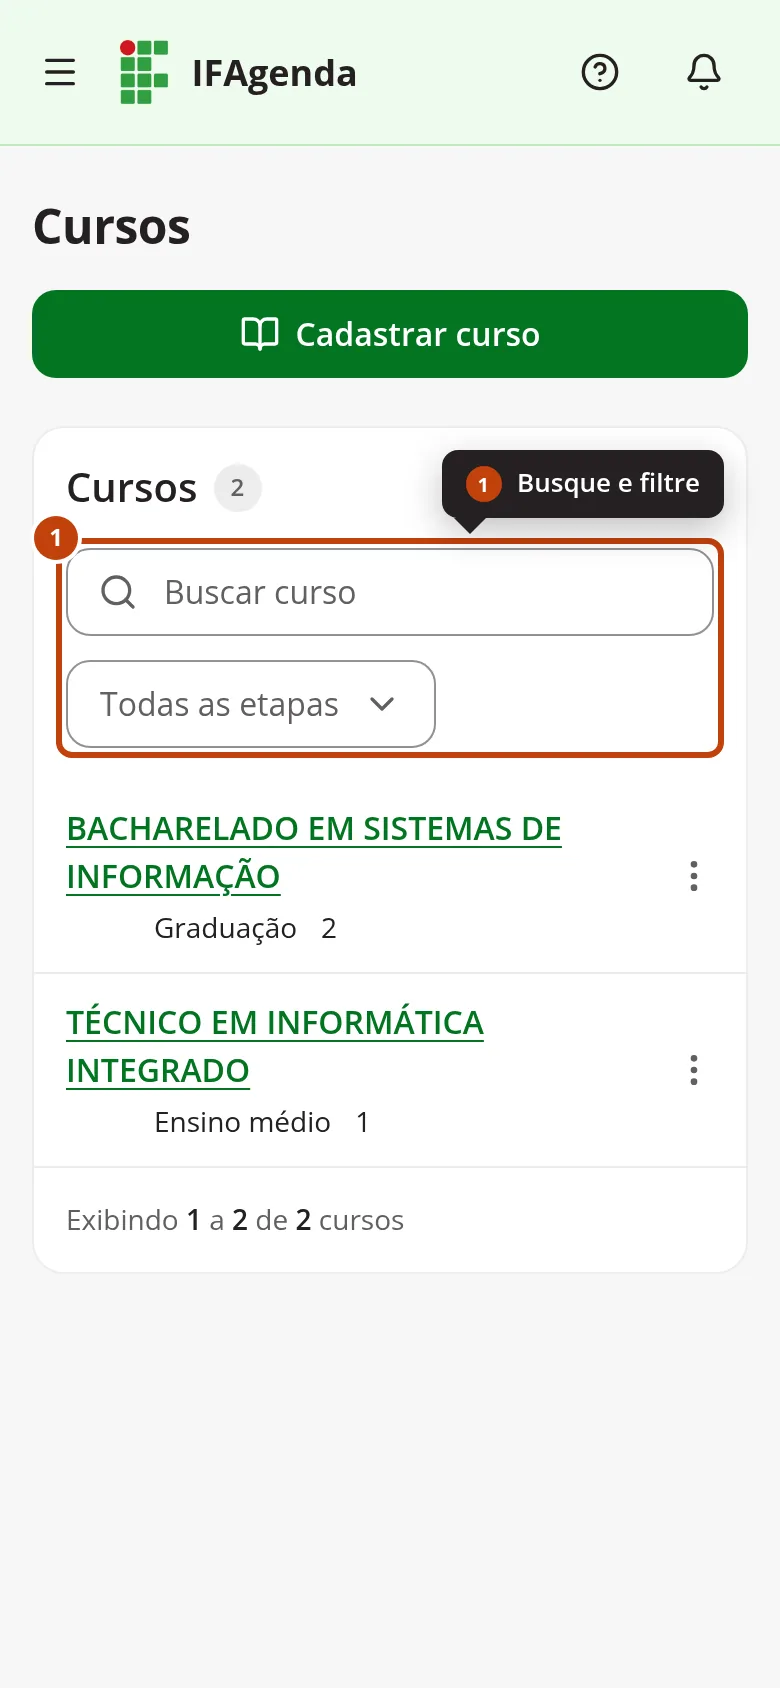
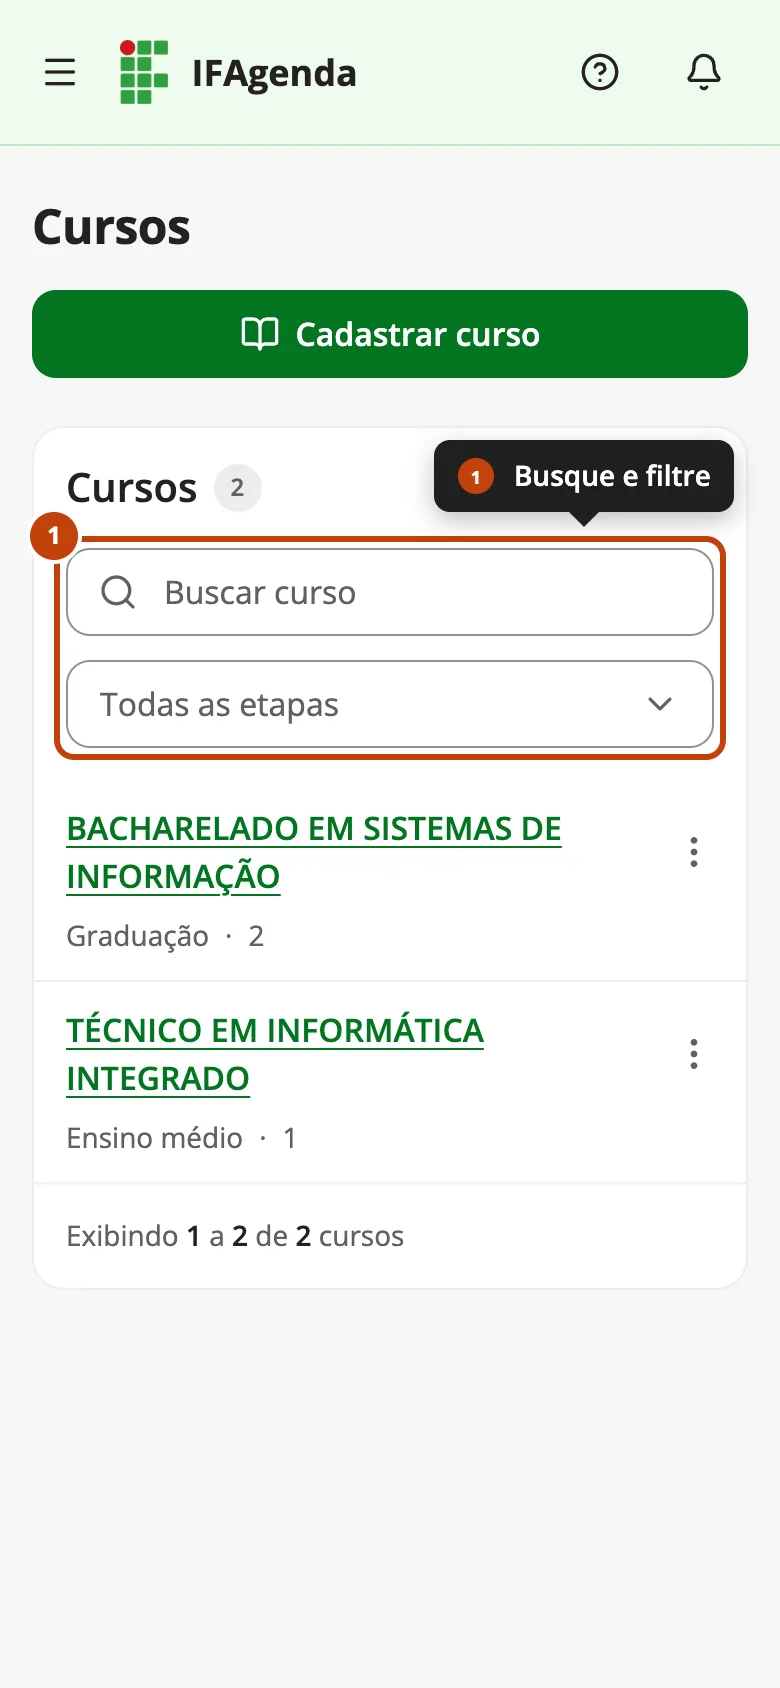
fix: melhora a lista compacta e os filtros no celular e atualiza os tutoriais da gestão acadêmica

diff --git a/implementacao-tcc/ui/styles/app.css b/implementacao-tcc/ui/styles/app.css
@@ -1473,9 +1473,12 @@
       padding-right: var(--spacing-10);
     }
 
+    /* No celular, cada campo ocupa a linha inteira: sem isso o invólucro do
+       select encolhe para o rótulo e os filtros ficam com larguras diferentes. */
     @variant max-sm {
       width: 100%;
 
+      & > div,
       & .control,
       & .select-wrap,
       & .select {
@@ -2519,9 +2522,11 @@
   }
 
   .row-filter {
-    & .select-wrap,
-    & .select {
-      width: calc(var(--spacing-16) * 4);
+    @variant sm {
+      & .select-wrap,
+      & .select {
+        width: calc(var(--spacing-16) * 4);
+      }
     }
   }
 
@@ -3613,12 +3618,19 @@
   .data-table.compact-rows {
     @variant max-sm {
       & tr {
-        display: grid;
-        grid-template-columns: var(--spacing-8) auto 1fr auto;
-        column-gap: var(--spacing-3);
+        display: flex;
+        flex-wrap: wrap;
+        column-gap: var(--spacing-2);
         row-gap: var(--spacing-1);
         align-items: center;
         padding: var(--spacing-3) var(--spacing-1) var(--spacing-3) var(--spacing-4);
+
+        &::before {
+          content: "";
+          order: 2;
+          flex-basis: 100%;
+          height: 0;
+        }
       }
 
       & td,
@@ -3633,7 +3645,9 @@
       }
 
       & .cell-primary {
-        grid-column: 1 / 4;
+        order: 0;
+        flex: 1 1 0;
+        min-width: 0;
       }
 
       & .avatar {
@@ -3644,19 +3658,43 @@
       }
 
       & .cell-meta {
-        grid-row: 2;
-        grid-column: 2;
+        order: 3;
+        min-width: 0;
+        max-width: 100%;
+        color: var(--color-text-muted);
         font-size: var(--text-sm);
         line-height: var(--text-sm--line-height);
+        overflow-wrap: anywhere;
+
+        & .person-detail {
+          display: inline;
+          margin-inline-start: var(--spacing-1);
+        }
       }
 
-      & .cell-meta + .cell-meta {
-        grid-column: 3;
+      /* O ponto fica no fim do item anterior: quando o resumo quebra, a linha
+         nova não começa com o separador. Antes do selo não há ponto, porque o
+         selo já se separa do texto. */
+      & .cell-meta:has(+ .cell-meta)::after {
+        content: "·";
+        margin-inline-start: var(--spacing-2);
+      }
+
+      & .cell-meta:has(+ .cell-meta > .badge)::after {
+        content: none;
+      }
+
+      & .cell-meta.is-empty {
+        display: none;
+      }
+
+      & tr:has(.avatar) .cell-primary + .cell-meta {
+        margin-inline-start: calc(var(--spacing-8) + var(--spacing-3));
       }
 
       & .cell-actions {
-        grid-row: 1 / 3;
-        grid-column: 4;
+        order: 1;
+        flex: none;
       }
 
       & .row-actions > :not(.row-menu) {

diff --git a/implementacao-tcc/schedule/templates/schedule/partials/space_table.html b/implementacao-tcc/schedule/templates/schedule/partials/space_table.html
@@ -12,7 +12,7 @@
     {% for item in spaces %}
       <tr>
         <td class="cell-primary" data-label="Espaço"><span class="person-name">{{ item.name }}</span></td>
-        <td class="cell-meta" data-label="Outros nomes">{{ item.other_names|join:", "|default:"Sem outros nomes" }}</td>
+        <td class="cell-meta{% if not item.other_names %} is-empty{% endif %}" data-label="Outros nomes">{{ item.other_names|join:", "|default:"Sem outros nomes" }}</td>
         <td class="cell-meta" data-label="Origem">{{ item.get_origin_display }}{% if item.source_import %}<span class="person-detail">{{ item.source_import.file_name }}, {{ item.source_import.created_at|date:"SHORT_DATE_FORMAT" }}</span>{% endif %}</td>
         <td class="cell-meta" data-label="Situação">
           {% if item.is_active %}

diff --git a/implementacao-tcc/docs/desenvolvimento/convencoes.md b/implementacao-tcc/docs/desenvolvimento/convencoes.md
@@ -169,7 +169,7 @@ Sempre o mesmo termo para a mesma coisa, termos do mundo real do campus (princí
 - Grade de horários (a Grade do ensalamento): é um quadro de faixas por dias, e não uma tabela de registros, e não vira blocos empilhados. Quando os dias não cabem na largura, a Grade rola na horizontal dentro da própria área, rotulada e focável, com a coluna de horários e a linha dos dias fixas (`position: sticky`), e a página nunca rola na horizontal. A visão semanal abaixo de 640 px continua como lista por dia; a mensal continua como Grade.
 - No calendário público, a Grade é a mesma em qualquer largura, sem a lista por dia: abaixo de 640 px ela mostra dois dias inteiros por vez, rola na horizontal só dentro da própria área encaixando no início de cada dia, com as colunas fixas, e abre rolada até "Hoje". O card mantém o mesmo conteúdo em qualquer largura, e os filtros ficam sempre abertos; ao aplicar um filtro, a página desce até o calendário com rolagem suave.
 - Visualizações diferentes da mesma consulta (por exemplo, semana e mês da Grade) são escolhidas por um campo de seleção junto dos filtros, e não por abas, e a troca mantém os demais filtros.
-- Lista compacta (`data-table compact-rows`), para listas de pessoas em que cada linha se identifica pelo nome: abaixo de 640 px, a linha mostra o avatar, o nome e o e-mail, uma linha de resumo com as células `cell-meta` (perfil e selo de situação) sem rótulos, e um único botão "Mais ações" (`row-menu`, ícone `ellipsis-vertical`) com todas as ações da linha. O template passa essa lista a `row_actions.html` em `compact`. Acima de 640 px, a tabela fica igual às demais. É usada na lista de usuários.
+- Lista compacta (`data-table compact-rows`), para listas em que cada linha se identifica pelo nome: abaixo de 640 px, a linha mostra o nome (com avatar e e-mail, nas pessoas) e um único botão "Mais ações" (`row-menu`, ícone `ellipsis-vertical`) com todas as ações da linha; logo abaixo vem uma linha de resumo com as células `cell-meta` sem rótulos, separadas por "·", que quebra conforme a largura da tela. Uma célula `cell-meta` com a classe `is-empty` (como "Sem outros nomes") some nessa linha. O template passa a lista de ações a `row_actions.html` em `compact`. Acima de 640 px, a tabela fica igual às demais. É usada nas listas de usuários, espaços, cursos, disciplinas e turmas.
 - O calendário público abre no modo escuro e tem um botão só com ícone na barra do topo para trocar entre o modo escuro e o claro, guardado no `localStorage` do navegador (`tema`). O modo escuro é o bloco `:root[data-theme="dark"]` do `app.css`, que redefine os tokens de cor sobre os valores do tema claro: a troca não muda classe nenhuma nos templates. Os pares de contraste do `ui/contrast.py` valem nos dois temas. As telas autenticadas continuam só no modo claro.
 - Só os tokens da escala fechada (cores, espaçamentos, raios, sombras e tamanhos de fonte). Nada de `style=`, valores arbitrários do Tailwind (`p-[13px]`, `bg-[#...]`) ou cores fora dos tokens nos templates.
 - Contraste mínimo AA: 4,5:1 para texto normal, 3:1 para texto grande e bordas de controle.
